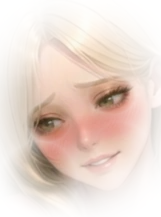
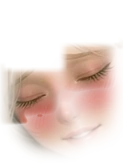
Эмоции дня 2 стадии 2: убран «двойной глаз» — слой глаз больше не просвечивает старым зрачком, «shy» берёт веки из проверенного «blink», геометрия слоя подставляется из emo_geo.json при сборке

diff --git a/index.html b/index.html
@@ -1893,14 +1893,14 @@ function chestHit(){
 /* ---- эмоции: кадры-варианты той же позы (моргание, смущённая улыбка) ---- */
 /* бокс слоя эмоции в долях кадра (генерит tools/prep_eyes.py) */
 const EMO_GEO_REAL = {
-  '1sg1': [0.4214, 0.0974, 0.1523, 0.1080],
-  '1sg2': [0.3899, 0.0792, 0.1470, 0.1210],
-  '1sg3': [0.4012, 0.0704, 0.1376, 0.1392],
-  '1sg4': [0.3996, 0.0777, 0.1573, 0.1314],
-  '2sg1': [0.3888, 0.0681, 0.1584, 0.1330],
-  '2sg2': [0.3966, 0.0955, 0.1641, 0.1690],
-  '2sg3': [0.4273, 0.0773, 0.1876, 0.1108],
-  '2sg4': [0.4068, 0.0757, 0.1606, 0.1404]
+  '1sg1': [0.4394, 0.1109, 0.1163, 0.081],
+  '1sg2': [0.4073, 0.0943, 0.1123, 0.0907],
+  '1sg3': [0.4174, 0.0878, 0.1051, 0.1044],
+  '1sg4': [0.4181, 0.0942, 0.1201, 0.0986],
+  '2sg1': [0.4075, 0.0847, 0.121, 0.0997],
+  '2sg2': [0.416, 0.1166, 0.1254, 0.1268],
+  '2sg3': [0.4494, 0.0912, 0.1433, 0.0831],
+  '2sg4': [0.4257, 0.0933, 0.1227, 0.1053]
 };
 
 const EMO = { tag: null, shy: false, blinkTimer: 0, shyTimer: 0, ok: { shy: false, blink: false } };

diff --git a/tools/prep_eyes.py b/tools/prep_eyes.py
@@ -18,7 +18,7 @@ import sys
 
 import cv2
 import numpy as np
-from PIL import Image, ImageDraw, ImageFilter
+from PIL import Image, ImageChops, ImageDraw, ImageFilter
 
 ROOT = os.path.dirname(os.path.dirname(os.path.abspath(__file__)))
 RAW = os.path.join(ROOT, 'images', 'raw_real')
@@ -143,26 +143,35 @@ def band_box(key, tw, th, pad=0.10):
 
 
 def _shift_band(ref, gen, box):
-    """Сдвиг и масштаб по полосе глаз (шаблон = вся глазница целиком)."""
-    a = np.asarray(ref.convert('L'), dtype=np.float32) / 255.0
-    g0 = np.asarray(gen.convert('L'), dtype=np.float32) / 255.0
+    """Сдвиг и масштаб по полосе глаз (шаблон = вся глазница целиком).
+
+    Ищем по КОНТУРАМ и в широком диапазоне: генератор иногда отдаёт голову
+    заметно мельче и сдвинутой (2-й день, 2-я стадия — масштаб ~0.90). Старый
+    узкий диапазон 0.96..1.04 давал «совпадение» с плохим выравниванием, и веко
+    ложилось мимо глаза — два глаза друг на друге.
+    """
+    def edges(x):
+        g = cv2.GaussianBlur(x, (0, 0), 1.2)
+        gx = cv2.Sobel(g, cv2.CV_32F, 1, 0, ksize=3)
+        gy = cv2.Sobel(g, cv2.CV_32F, 0, 1, ksize=3)
+        e = np.abs(gx) + np.abs(gy)
+        return cv2.GaussianBlur(e, (0, 0), 1.0)
+
+    a = edges(np.asarray(ref.convert('L'), dtype=np.float32))
+    g0 = edges(np.asarray(gen.convert('L'), dtype=np.float32))
     x0, y0, x1, y1 = [int(v) for v in box]
     tpl = a[y0:y1, x0:x1]
-    tw, th = tpl.shape[1], tpl.shape[0]
-    mx_shift = int(tw * 0.22)
-    my_shift = int(th * 0.55)
-    best = (1.0, 0, 0, 0.0)
-    for f in (0.96, 0.97, 0.98, 0.99, 1.0, 1.01, 1.02, 1.03, 1.04):
-        g = cv2.resize(g0, None, fx=f, fy=f, interpolation=cv2.INTER_LANCZOS4)
-        rx0, ry0 = max(0, x0 - mx_shift), max(0, y0 - my_shift)
-        rx1, ry1 = min(g.shape[1], x1 + mx_shift), min(g.shape[0], y1 + my_shift)
-        roi = g[ry0:ry1, rx0:rx1]
-        if roi.shape[0] < th + 4 or roi.shape[1] < tw + 4:
+    if tpl.shape[0] < 8 or tpl.shape[1] < 8:
+        return (1.0, 0, 0, 0.0)
+    best = (1.0, 0, 0, -1.0)
+    for f in [0.82 + 0.02 * i for i in range(19)]:
+        g = cv2.resize(g0, None, fx=f, fy=f, interpolation=cv2.INTER_AREA if f < 1 else cv2.INTER_LANCZOS4)
+        if g.shape[0] < tpl.shape[0] or g.shape[1] < tpl.shape[1]:
             continue
-        r = cv2.matchTemplate(roi, tpl, cv2.TM_CCOEFF_NORMED)
+        r = cv2.matchTemplate(g, tpl, cv2.TM_CCOEFF_NORMED)
         _, mx, _, loc = cv2.minMaxLoc(r)
         if mx > best[3]:
-            best = (f, x0 - (loc[0] + rx0), y0 - (loc[1] + ry0), mx)
+            best = (f, x0 - loc[0], y0 - loc[1], mx)
     return best
 
 
@@ -227,7 +236,7 @@ def build(day, tag, mood, debug=False):
     log = []
     B = band_box(key, tw, th)   # уже в пикселях кропа
     f, dx, dy, score = _shift_band(ref, gen, B)
-    if score < 0.60:
+    if score < 0.45:
         f, dx, dy = 1.0, 0, 0
     g2 = gen.resize((round(tw * f), round(th * f)), Image.LANCZOS) if f != 1.0 else gen
     log.append(f'{f:.2f}[{dx},{dy}]{score:.2f}')
@@ -238,22 +247,74 @@ def build(day, tag, mood, debug=False):
     dh = ImageDraw.Draw(hard)
     for b in EYES[key]:
         e = (b[0] * tw, b[1] * th, b[2] * tw, b[3] * th)
-        cx, cy = (e[0] + e[2]) / 2, (e[1] + e[3]) / 2
-        rx, ry = (e[2] - e[0]) / 2 * 1.12, (e[3] - e[1]) / 2 * 1.12
-        dh.ellipse((cx - rx, cy - ry, cx + rx, cy + ry), fill=255)
-    hard = hard.filter(ImageFilter.GaussianBlur(max(2, int(min(B[2] - B[0], B[3] - B[1]) * 0.06))))
+        ex, ey = (e[2] - e[0]) * 0.06, (e[3] - e[1]) * 0.06
+        dh.rectangle([e[0] - ex, e[1] - ey, e[2] + ex, e[3] + ey], fill=255)
+    # кромку ядра растушёвываем сильнее: при 2 px на коже была видна прямая
+    # граница прямоугольника («стеклянная плашка» над глазом)
+    hard = hard.filter(ImageFilter.GaussianBlur(5))
+    # Растушёвка — ВОКРУГ КАЖДОГО ГЛАЗА, а не общим овалом на всю полосу:
+    # у наклонённой головы в полосу попадает бровь, и её смещённая копия из
+    # генерата ложилась второй дугой над веком.
     soft = Image.new('L', (tw, th), 0)
-    ImageDraw.Draw(soft).ellipse(B, fill=255)
-    soft = soft.filter(ImageFilter.GaussianBlur(max(3, int(min(B[2] - B[0], B[3] - B[1]) * BAND_FEATHER))))
-    alpha = Image.fromarray(np.maximum(np.array(hard), (np.array(soft) * 0.85).astype('uint8')), 'L')
+    ds = ImageDraw.Draw(soft)
+    for b in EYES[key]:
+        e = (b[0] * tw, b[1] * th, b[2] * tw, b[3] * th)
+        cx, cy = (e[0] + e[2]) / 2, (e[1] + e[3]) / 2
+        rx, ry = (e[2] - e[0]) / 2 * 1.70, (e[3] - e[1]) / 2 * 1.55
+        ds.ellipse((cx - rx, cy - ry, cx + rx, cy + ry), fill=255)
+    soft = soft.filter(ImageFilter.GaussianBlur(max(3, int(min(B[2] - B[0], B[3] - B[1]) * 0.09))))
+    alpha = Image.fromarray(np.maximum(np.array(hard), (np.array(soft) * 0.50).astype('uint8')), 'L')
+
+    # Гарантия «старого глаза не видно»: там, где в арте лежит тёмный зрачок,
+    # ресницы или зелёная радужка, альфа — полная. Иначе у наклонённого глаза
+    # (2-й день, 2-я стадия) старый зрачок просвечивал рядом с новым веком и
+    # получалось два глаза друг на друге.
+    ra_ = np.asarray(ref.convert('RGB')).astype(np.float32)
+    lum_ = ra_.mean(axis=2)
+    grn_ = (ra_[..., 1] > ra_[..., 0] + 4) & (ra_[..., 1] > ra_[..., 2] + 4)
+    eye_px = ((lum_ < 118) | grn_).astype('uint8') * 255
+    box_only = np.zeros((th, tw), dtype='uint8')
+    for b in EYES[key]:
+        e = (b[0] * tw, b[1] * th, b[2] * tw, b[3] * th)
+        ex, ey = (e[2] - e[0]) * 0.20, (e[3] - e[1]) * 0.20
+        cv2.rectangle(box_only, (int(e[0] - ex), int(e[1] - ey)), (int(e[2] + ex), int(e[3] + ey)), 255, -1)
+    eye_px = cv2.bitwise_and(eye_px, box_only)
+    eye_px = cv2.dilate(eye_px, np.ones((5, 5), 'uint8'))
+    eye_px = cv2.GaussianBlur(eye_px, (0, 0), 1.6)
+    alpha = Image.fromarray(np.maximum(np.array(alpha), eye_px), 'L')
+
+    # Выше верхней кромки бокса глаза альфу обнуляем: там бровь. Иначе её
+    # смещённая копия из генерата ложилась второй дугой над веком.
+    al_np = np.asarray(alpha).astype(np.float32).copy()
+    for b in EYES[key]:
+        e = (b[0] * tw, b[1] * th, b[2] * tw, b[3] * th)
+        top = e[1] - 2.0
+        xs0, xs1 = int(e[0] - (e[2] - e[0]) * 0.30), int(e[2] + (e[2] - e[0]) * 0.30)
+        xs0, xs1 = max(0, xs0), min(tw, xs1)
+        yy = np.arange(th, dtype=np.float32)[:, None]
+        ramp = np.clip((yy - (top - 6.0)) / 6.0, 0.0, 1.0)
+        xx = np.arange(tw, dtype=np.float32)[None, :]
+        # по X — тоже плавно, иначе на стыке полосы появляется вертикальная
+        # линия («стеклянная плашка» над глазом)
+        xw = np.clip(np.minimum((xx - xs0) / 9.0, (xs1 - xx) / 9.0), 0.0, 1.0)
+        al_np *= (1.0 - (1.0 - ramp) * xw)
+    alpha = Image.fromarray(al_np.astype('uint8'), 'L')
 
     if mood == 'shy':
-        # щёки: кожа ровная — сюда можно класть содержимое генерата широко и мягко
+        # Щёки: «вниз по лицу», а не «вниз по кадру». У наклонённой головы
+        # (2-й день, 2-я стадия) смещение по Y уводило щёку на соседний глаз, и
+        # поверх него ложилось второе веко — «эмоции друг на друге».
+        e0 = [b * v for b, v in zip(EYES[key][0], (tw, th, tw, th))]
+        e1 = [b * v for b, v in zip(EYES[key][-1], (tw, th, tw, th))]
+        ux, uy = (e1[0] + e1[2]) / 2 - (e0[0] + e0[2]) / 2, (e1[1] + e1[3]) / 2 - (e0[1] + e0[3]) / 2
+        n = max(1e-6, (ux * ux + uy * uy) ** 0.5)
+        ux, uy = ux / n, uy / n
+        down = (-uy, ux) if ux >= 0 else (uy, -ux)      # перпендикуляр к линии глаз, вниз
         for b in EYES[key]:
             e = (b[0] * tw, b[1] * th, b[2] * tw, b[3] * th)
             ew, eh = (e[2] - e[0]), (e[3] - e[1])
-            cx = (e[0] + e[2]) / 2
-            cy = e[3] + eh * 0.55
+            cx = (e[0] + e[2]) / 2 + down[0] * eh * 0.95
+            cy = (e[1] + e[3]) / 2 + down[1] * eh * 0.95
             rx, ry = ew * 0.52 * CHEEK_GROW, eh * 0.62 * CHEEK_GROW
             m = _ell((tw, th), cx, cy, rx, ry, min(rx, ry) * CHEEK_FEATHER)
             alpha = Image.fromarray(np.maximum(np.array(alpha), np.array(m)), 'L')
@@ -263,24 +324,81 @@ def build(day, tag, mood, debug=False):
     # полупрозрачный край маски ложился на лицо серой тенью («квадрат»).
     # КАДР С ГЕНЕРАТОМ: в патч должен идти ИМЕННО он, а не базовый арт.
     # (Раньше здесь оставался неиспользованный буфер, и слой моргал «пустотой».)
+    # Гасим НИЗКОЧАСТОТНУЮ ошибку генерата: он перерисовывает лицо чуть иначе
+    # по свету и гладкости, и в полупрозрачной растушёвке это читалось как
+    # «два лица друг на друге» (особенно на наклонённой голове, 2-й день,
+    # 2-я стадия). Оставляем от генерата только локальную деталь — веки.
+    gg = g2 if g2.size == ref.size else g2.resize(ref.size, Image.LANCZOS)
+    ra = np.asarray(ref.convert('RGB'), dtype=np.float32)
+    ga = np.asarray(gg.convert('RGB'), dtype=np.float32)
+    sig = max(2.5, min(ref.size) * 0.045)
+    low = cv2.GaussianBlur(ga - ra, (0, 0), sig)
+    g2c = Image.fromarray(np.clip(ga - low, 0, 255).astype('uint8'), 'RGB')
     canvas_rgb = flat.copy()
-    canvas_rgb.paste(g2, (box[0] + dx, box[1] + dy))
+    canvas_rgb.paste(g2c, (box[0] + dx, box[1] + dy))
+
+    canvas_rgb = flat.copy()
+    canvas_rgb.paste(g2c, (box[0] + dx, box[1] + dy))
+
+    if mood == 'shy':
+        # ГЛАЗА ДЛЯ «shy» БЕРЁМ ИЗ «blink». У наклонённых поз (2-й день, 2-я
+        # стадия) генерат «shy» рисует затенённый глаз выше и мельче, чем в
+        # арте, и поверх старого глаза ложится второе веко — «эмоции друг на
+        # друге». Моргание выровнено идеально, поэтому веки берём оттуда, а от
+        # «shy» остаётся румянец.
+        srcb = os.path.join(RAW, FACECROP[day].format(mood='blink', tag=tag))
+        if os.path.exists(srcb):
+            genb = Image.open(srcb).convert('RGB').resize((tw, th), Image.LANCZOS)
+            genb = match_sharp(match_low(genb, ref), ref, _nose_box(key, tw, th))
+            fb, dxb, dyb, sb = _shift_band(ref, genb, B)
+            if sb < 0.45:
+                fb, dxb, dyb = 1.0, 0, 0
+            gb2 = genb.resize((round(tw * fb), round(th * fb)), Image.LANCZOS) if fb != 1.0 else genb
+            ggb = gb2 if gb2.size == ref.size else gb2.resize(ref.size, Image.LANCZOS)
+            rab = np.asarray(ref.convert('RGB'), dtype=np.float32)
+            gbb = np.asarray(ggb.convert('RGB'), dtype=np.float32)
+            lowb = cv2.GaussianBlur(gbb - rab, (0, 0), sig)
+            gbc = Image.fromarray(np.clip(gbb - lowb, 0, 255).astype('uint8'), 'RGB')
+            canvas_b = flat.copy()
+            canvas_b.paste(gbc, (box[0] + dxb, box[1] + dyb))
+            m_eye = Image.new('L', MASTER, 0)
+            dm = ImageDraw.Draw(m_eye)
+            for b in EYES[key]:
+                e = (b[0] * tw, b[1] * th, b[2] * tw, b[3] * th)
+                ex, ey = (e[2] - e[0]) * 0.16, (e[3] - e[1]) * 0.16
+                dm.rectangle([box[0] + e[0] - ex, box[1] + e[1] - ey,
+                              box[0] + e[2] + ex, box[1] + e[3] + ey], fill=255)
+            m_eye = m_eye.filter(ImageFilter.GaussianBlur(3))
+            canvas_rgb = Image.composite(canvas_b, canvas_rgb, m_eye)
 
     # Кадр целиком отдавать вёрстке нельзя: элемент размером с кадр при
     # каждом моргании подсовывает телефону картинку на весь экран, а в
     # прозрачной зоне у неё чёрный цвет — при уменьшении это и давало серый
     # прямоугольник и тёмное лицо. Отдаём только область глаз: она маленькая,
     # в прозрачных пикселях лежит ЦВЕТ АРТА, а не чёрный.
-    gx0 = (box[0] + B[0] - (B[2] - B[0]) * 0.22) / W
-    gy0 = (box[1] + B[1] - (B[3] - B[1]) * 0.30) / H
-    gx1 = (box[0] + B[2] + (B[2] - B[0]) * 0.22) / W
-    gy1 = (box[1] + B[3] + (B[3] - B[1]) * 0.30) / H
+    # Запас по краям минимальный: сгенерированный кадр — это перерисовка всего
+    # лица, и чем дальше от глаз, тем сильнее она «уезжает» от арта. С большим
+    # запасом на наклонённом лице (2-й день, 2-я поза) видно ДВА лица друг на
+    # друге — нос и контур щеки в генерате стоят иначе.
+    gx0 = (box[0] + B[0] - (B[2] - B[0]) * 0.05) / W
+    gy0 = (box[1] + B[1] - (B[3] - B[1]) * 0.10) / H
+    gx1 = (box[0] + B[2] + (B[2] - B[0]) * 0.05) / W
+    gy1 = (box[1] + B[3] + (B[3] - B[1]) * 0.10) / H
     gx0, gy0 = max(0.0, gx0), max(0.0, gy0)
     gx1, gy1 = min(1.0, gx1), min(1.0, gy1)
     cbox = (round(W * gx0), round(H * gy0), round(W * gx1), round(H * gy1))
     full = canvas_rgb.crop(cbox).convert('RGBA')
     full_alpha = Image.new('L', full.size, 0)
     full_alpha.paste(alpha, (box[0] - cbox[0], box[1] - cbox[1]))
+    # Альфа обязана дойти до нуля у самой кромки: иначе на границе кропа
+    # остаётся прямая линия и патч читается как прямоугольник поверх лица.
+    win = Image.new('L', full.size, 0)
+    mx, my = max(2, int(full.width * 0.10)), max(2, int(full.height * 0.10))
+    ImageDraw.Draw(win).rounded_rectangle(
+        [mx, my, full.width - 1 - mx, full.height - 1 - my],
+        radius=int(min(full.size) * 0.26), fill=255)
+    win = win.filter(ImageFilter.GaussianBlur(max(2, int(min(full.size) * 0.07))))
+    full_alpha = ImageChops.multiply(full_alpha, win)
     full.putalpha(full_alpha)
     GEO[key] = [round(gx0, 4), round(gy0, 4), round(gx1 - gx0, 4), round(gy1 - gy0, 4)]
     out = os.path.join(OUT, f'art_real_face_day{day}_{tag}_{mood}.webp')
